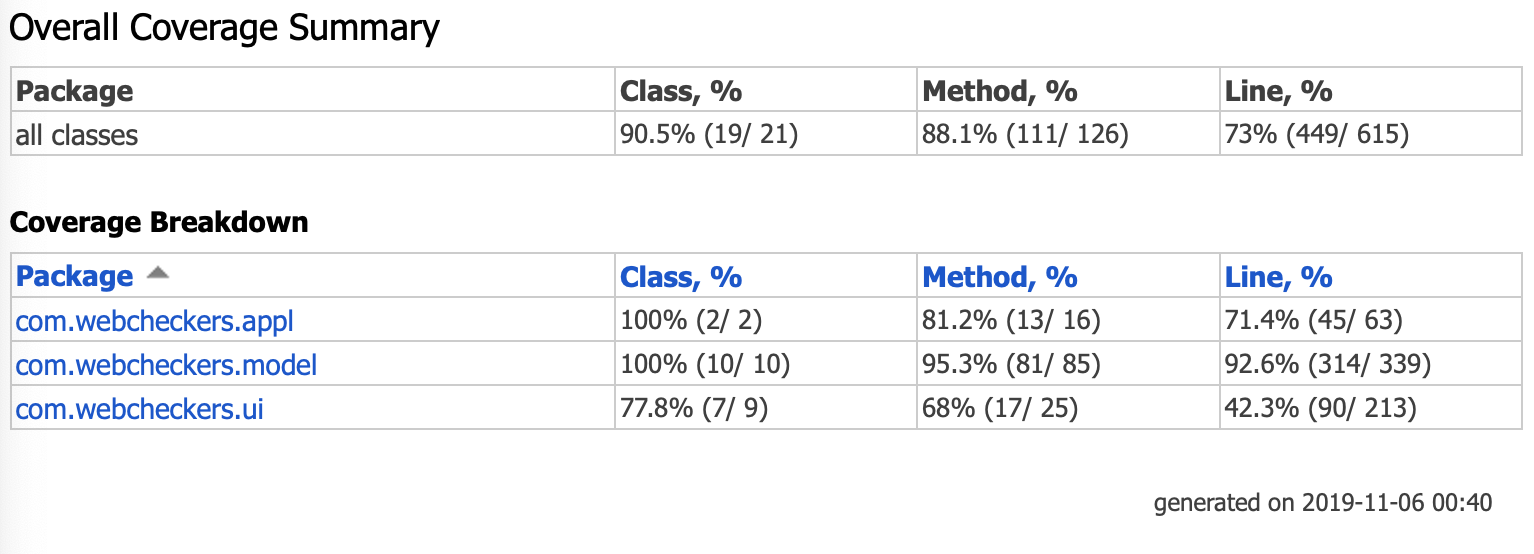
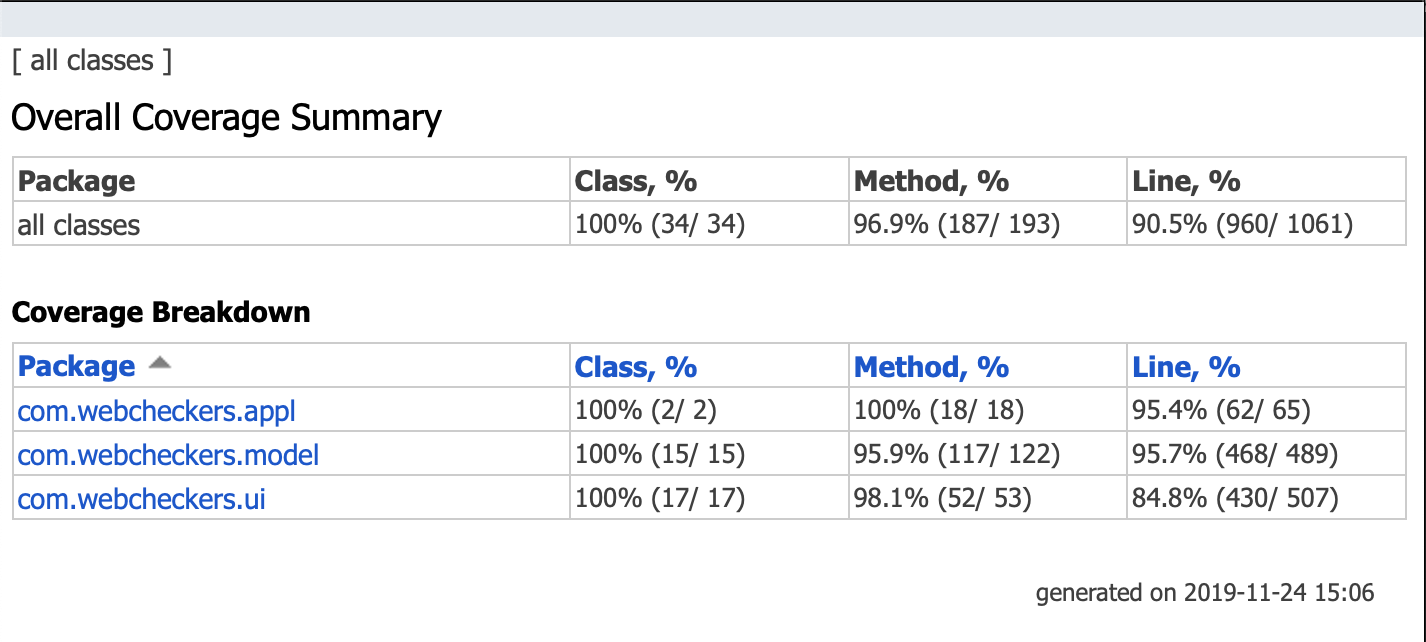
updates to the design document adding in new photos for code metrics and updating old photos

Changed region(s): [[0.0, 0.0, 1.0, 1.0]]

diff --git a/docs/DesignDoc.md b/docs/DesignDoc.md
@@ -71,9 +71,16 @@ This section describes the features of the application.
 >* A user is only able to resign a game when it is their turn.
 >* A user wins by capturing all opponents pieces or making their opponent no longer able to move
 >
->_In this section you do not need to be exhaustive and list every
-> story.  Focus on top-level features from the Vision document and
-> maybe Epics and critical Stories._
+>AI Enhancement
+ >* A user will be able to win, lose, or tie a game.
+ >* A USer will be able to resign a game be lose when resigned
+ >* A user is only able to resign a game when it is their turn.
+>
+>Spectator Enhancement
+>* A user will be able to win, lose, or tie a game.
+>* A USer will be able to resign a game be lose when resigned
+>* A user is only able to resign a game when it is their turn.
+
 
 ### Definition of MVP
 
@@ -84,28 +91,32 @@ This section describes the features of the application.
 ### MVP Features
 
 >* Sign In
+>>* A player must be able to sign into WebCheckers.
 >* Start Game
+>>* A Player must be able to start a game with an opponent.
 >* Sign Out
+>>* A Player must be able to sign out of a game.
 >* Resignation
+>>* A player must be able to resign from a game when it is their turn.
 >* Game Play
->* Spectator Mode
->* AI
+>>* A player must be able to play a game with an opponent.
 
 
 ### Roadmap of Enhancements
 
->1. Sign In
->2. Start Game
->3. Sign Out
->4. Resignation
->5. Game Play
->6. Spectator Mode
->7. AI
+>* Spectator Mode
+>>* A player is able to spectate a live game.
+>>* A player is not able to be put in a game when spectating.
+>>* A player is not able to make any moves while spectating.
+>>* A player can see the time the last move was made.
+>* AI
+>>* A player is able to play a game with an AI.
+>>* Multiple players can play an AI game.
+>>* The AI is able to jump, move, and be kinged on the board.
 
 
 ## Application Domain
 
-This section describes the application domain.
 
 ![The WebCheckers Domain Model](domain-model.png)
 
@@ -129,8 +140,6 @@ This section describes the application domain.
 
 
 ## Architecture and Design
-
-This section describes the application architecture.
 
 ### Summary
 
@@ -234,8 +243,8 @@ This section describes the web interface flow; this is how the user views and in
 ### Unit Testing and Code Coverage
 > Each team member created unit tests to test various parts of the program.
 > Initially each member tested an item from the UI and something from the application or model tier. Afterwards, team members created more tests to try to gain high code coverage.
-> We aimed for above 90% code coverage in the application model for the lines and methods.
-> For the model tier we aimed for 95% code coverage and for the UI Tier we aimed for 85% code coverage.
+> We aimed for above 95% code coverage in the application model for the lines and methods.
+> For the model tier we aimed for 95% code coverage and for the UI Tier we aimed for 90% code coverage.
 > The figures shown below are the Jacoco analysis from the tests. 
 
 ![The WebCheckers Unit Testing](overall-code-coverage.png)
@@ -249,4 +258,6 @@ This section describes the web interface flow; this is how the user views and in
 >
 ![The WebCheckers Unit Testing](ui-code-coverage.png)
 >
+>
+### Code Metric Analysis
 >
